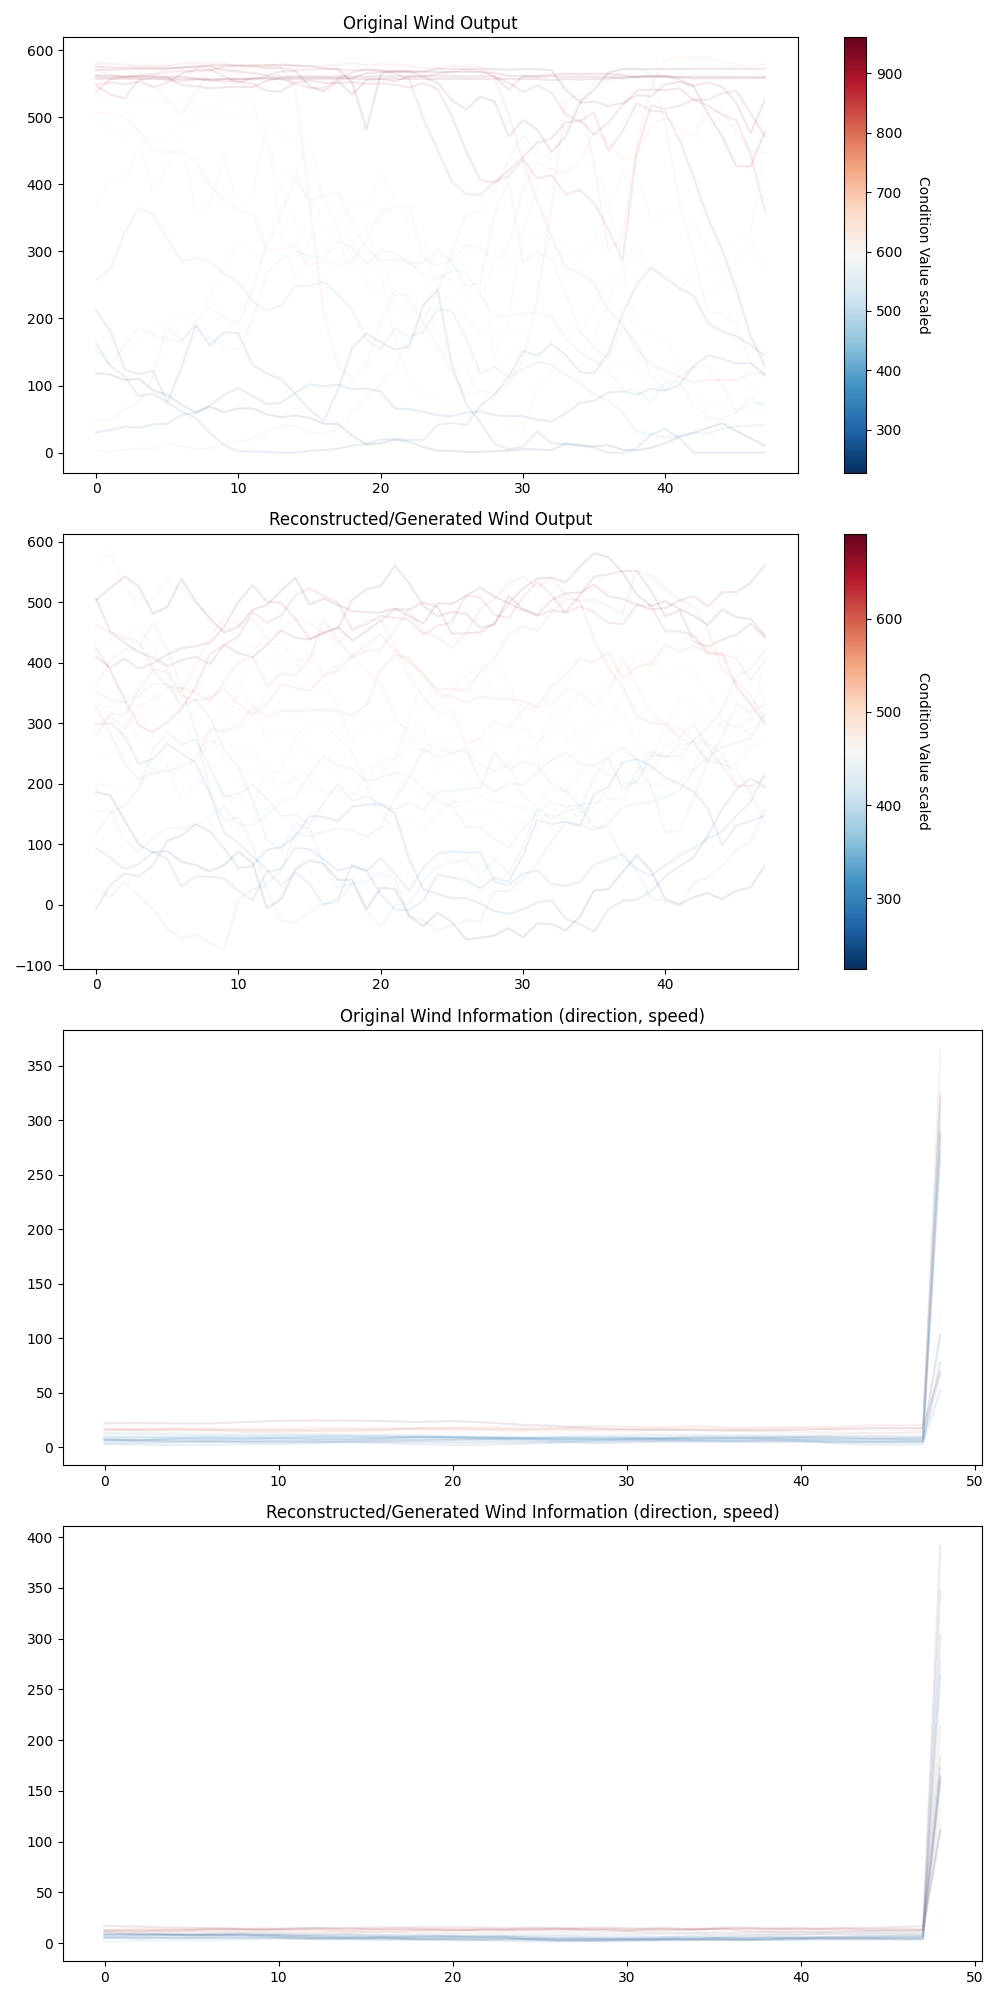
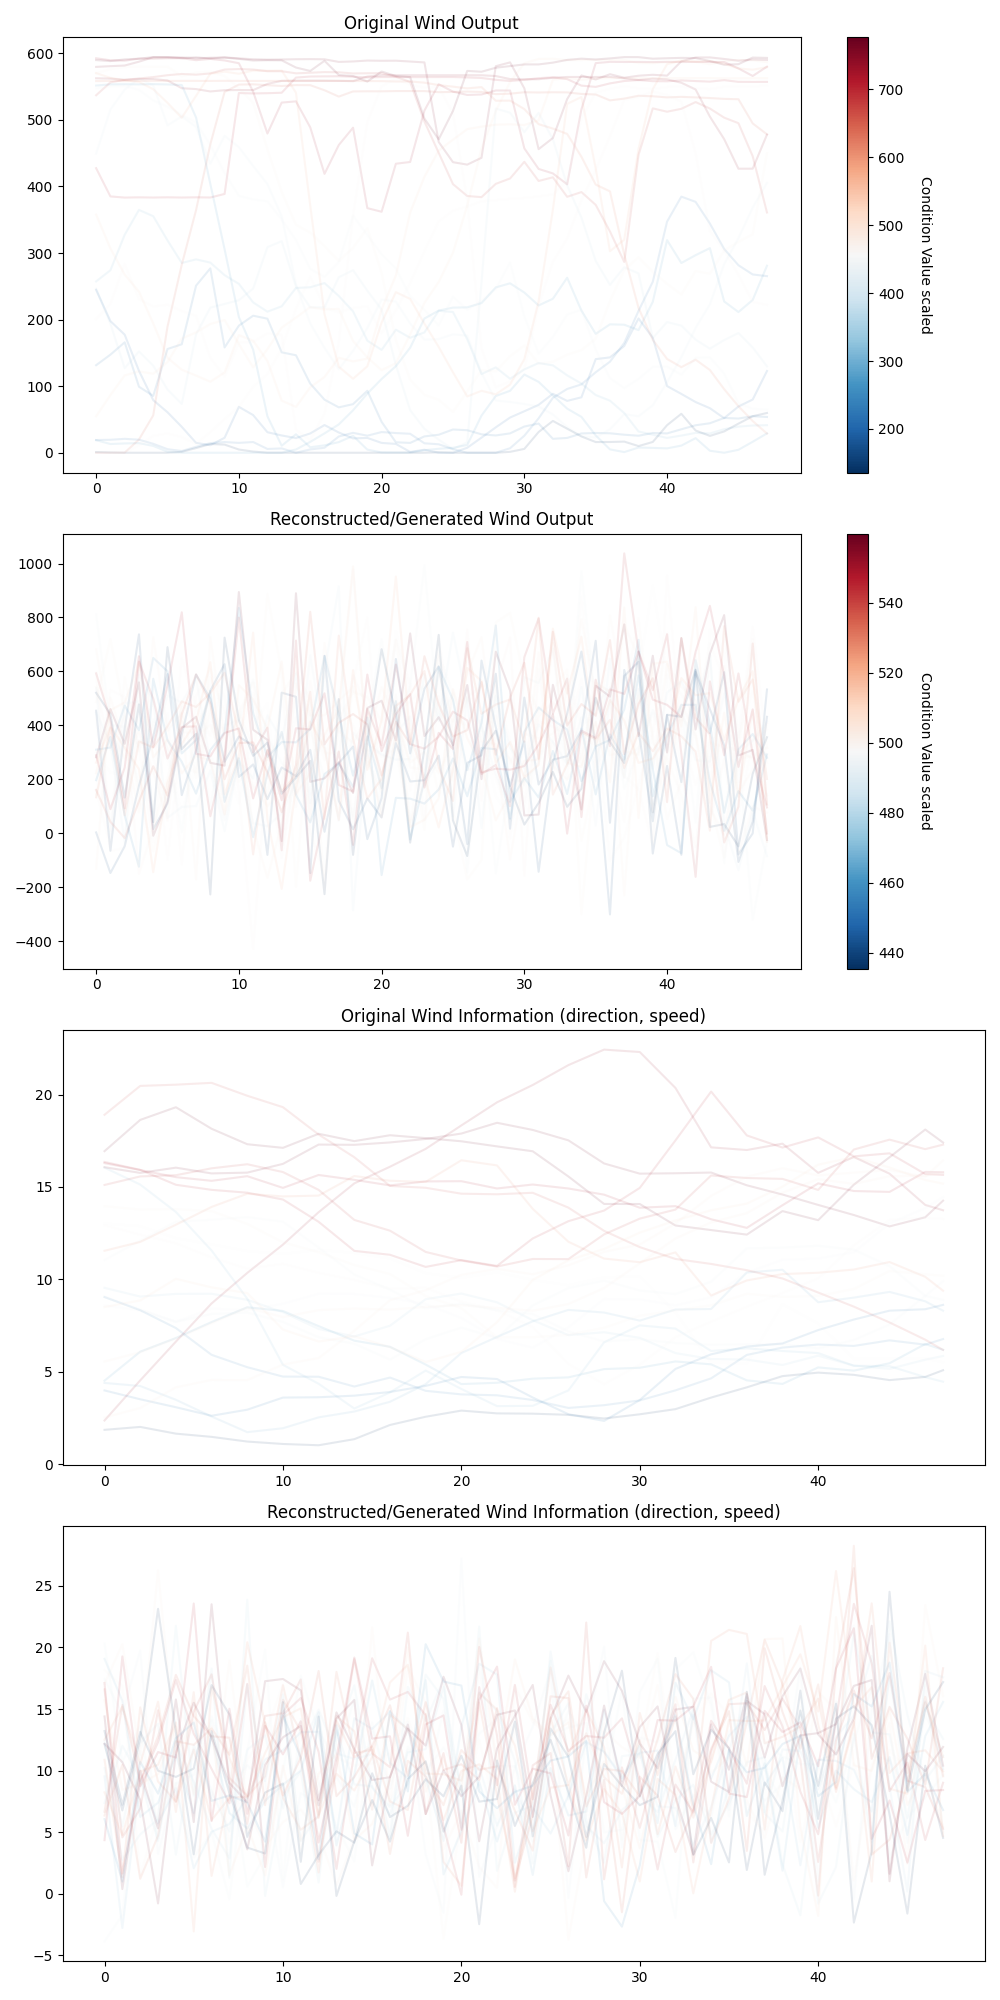
updata plot logics

diff --git a/data_augmentation/FCPFlow/tools/tools_train.py b/data_augmentation/FCPFlow/tools/tools_train.py
@@ -173,7 +173,7 @@ def train(model, train_loader, optimizer, epochs, cond_dim,
         gen_test = model.inverse(noise, cond_test)
 
         llh_test = em.calculate_energy_distances(gen_test.detach().numpy(), data_test.detach().numpy())
-        loss_test = -llh_test.mean()
+        loss_test = llh_test.mean()
         
         # Save the model
         if _save:
@@ -182,6 +182,13 @@ def train(model, train_loader, optimizer, epochs, cond_dim,
                 save_path = os.path.join('data_augmentation/FCPFlow/saved_model', f'FCPflow_model_{index}.pth')
                 torch.save(model.state_dict(), save_path)
                 loss_mid = loss_test.item()
+
+                # ----------------- Plot the generated data -----------------
+                if _plot:
+                    if (epoch % pgap ==0):
+                        save_path = os.path.join('data_augmentation/FCPFlow/saved_model',f'FCPflow_generated_{index}.png')
+                        plot_figure(pre, re_data, scaler, cond_dim, save_path)
+                # ----------------- Plot the generated data -----------------
             
         print(epoch, 'loss LogLikelihood: ', loss.item(), 'loss Energy Distance: ', loss_test.item())
         
@@ -194,9 +201,3 @@ def train(model, train_loader, optimizer, epochs, cond_dim,
         # ----------------- Test the model -----------------
         
         
-        # ----------------- Plot the generated data -----------------
-        if _plot:
-            if epoch % pgap ==0: 
-                save_path = os.path.join('data_augmentation/FCPFlow/saved_model',f'FCPflow_generated_{index}.png')
-                plot_figure(pre, re_data, scaler, cond_dim, save_path)
-        # ----------------- Plot the generated data -----------------
